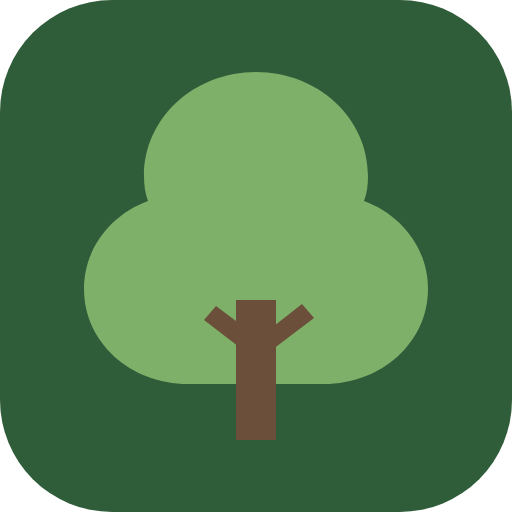
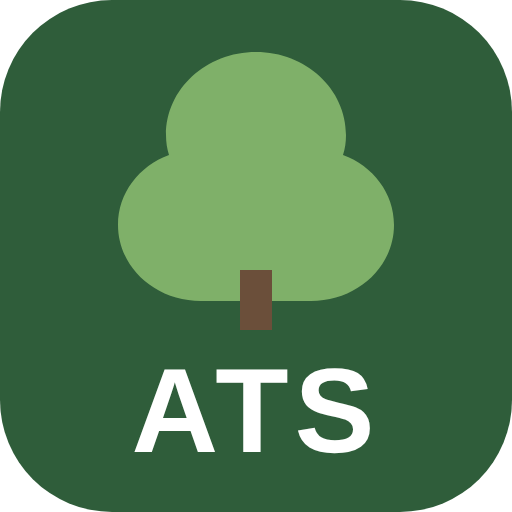
Brand app for Advanced Tree Service; document Hostinger temporary domain
Claude-Session: https://claude.ai/code/session_01Kr7WS6wqTJzsqW6JWC9REP

Changed region(s): [[0.1562, 0.3438, 0.8438, 0.9062], [0.2812, 0.0938, 0.6562, 0.3438], [0.6562, 0.2188, 0.7188, 0.3438]]

diff --git a/index.html b/index.html
@@ -3,7 +3,7 @@
 <head>
   <meta charset="utf-8">
   <meta name="viewport" content="width=device-width, initial-scale=1">
-  <title>Canopy Estimate</title>
+  <title>Advanced Tree Service</title>
   <meta name="theme-color" content="#2f5d3a">
   <meta name="apple-mobile-web-app-capable" content="yes">
   <meta name="apple-mobile-web-app-status-bar-style" content="default">
@@ -15,7 +15,7 @@
 </head>
 <body>
   <header class="toolbar no-print">
-    <div class="brand"><img src="brand/logo.svg" alt="" id="app-logo"><span id="app-name">Canopy Estimate</span></div>
+    <div class="brand"><img src="brand/logo.svg" alt="" id="app-logo"><span id="app-name">Advanced Tree Service</span></div>
     <nav class="actions">
       <button type="button" id="btn-new">New</button>
       <button type="button" id="btn-save" class="primary">Save</button>
@@ -31,7 +31,7 @@
     <section class="letterhead">
       <img id="logo-preview" class="logo" alt="" hidden>
       <div class="company">
-        <h1 id="co-name-display">Your Tree Service</h1>
+        <h1 id="co-name-display">Advanced Tree Service</h1>
         <div id="co-details-display" class="muted"></div>
       </div>
       <div class="doc-meta">

diff --git a/brand.js b/brand.js
@@ -2,7 +2,7 @@
 // to rebrand the app. Company details here are the defaults on every device; each device can
 // still override them under the "Company" button.
 window.BRAND = {
-  appName: 'Canopy Estimate',
+  appName: 'Advanced Tree Service',
 
   colors: {
     primary: '#2f5d3a',     // toolbar, headings, table header
@@ -12,11 +12,11 @@ window.BRAND = {
   },
 
   company: {
-    coName: 'Your Tree Service',
+    coName: 'Advanced Tree Service',
     coAddress: '',
     coPhone: '',
     coEmail: '',
-    coWebsite: '',
+    coWebsite: 'advanced-treeservice.com',
     coLicense: '',
     coTax: 0,
     coDeposit: 0,

diff --git a/sw.js b/sw.js
@@ -1,6 +1,6 @@
 // Offline support: serve the app from cache when there's no signal on site.
 // Bump VERSION whenever you deploy changes so devices pick up the new files.
-const VERSION = 'v1';
+const VERSION = 'v2';
 const CACHE = 'canopy-' + VERSION;
 const ASSETS = [
   './',

diff --git a/DEPLOY.md b/DEPLOY.md
@@ -4,13 +4,24 @@ The app is plain static files, so any Hostinger web hosting plan works. No Node.
 
 ## 1. Pick where it lives
 
+### Starting on a temporary domain (current plan)
+
+When you add a website in hPanel without connecting a domain, Hostinger gives it a free temporary address. It looks something like `something-12345.hostingersite.com`, and it already has SSL. Use that address to try the app before pointing advanced-treeservice.com at it. The app uses relative paths, so the files don't need any change when the domain changes.
+
+**Before you switch to the real domain:** estimates are stored per web address. Anything saved on phones while using the temporary address won't appear automatically once you move to advanced-treeservice.com. Before switching, on each device:
+1. Open **Saved → Export all** on the temporary address.
+2. Open the app on the new address and use **Saved → Import JSON**.
+3. Delete the old home-screen icon and install it again from the new address.
+
+### Final address
+
 Either:
-- **A subdomain** such as `estimates.yourcompany.com` (recommended). In hPanel, go to **Domains → Subdomains** and create it. Hostinger gives it its own folder, e.g. `public_html/estimates`.
-- **The main domain**, which uses `public_html` itself.
+- **A subdomain** such as `estimates.advanced-treeservice.com` (recommended, so it stays separate from your main website). In hPanel, go to **Domains → Subdomains** and create it. Hostinger gives it its own folder, e.g. `public_html/estimates`.
+- **The main domain**, which uses `public_html` itself. Only do this if this app *is* the whole site; otherwise it would replace your existing website.
 
 ## 2. Turn on SSL (required)
 
-Installing to the home screen and working offline only work over `https://`. In hPanel, open **Security → SSL** and install the free SSL certificate for the domain or subdomain. The included `.htaccess` then redirects all `http://` traffic to `https://`.
+Installing to the home screen and working offline only work over `https://`. In hPanel, open **Security → SSL** and install the free SSL certificate for the domain or subdomain. Temporary Hostinger domains normally come with SSL already. The included `.htaccess` then redirects all `http://` traffic to `https://`.
 
 ## 3. Upload the files
 
